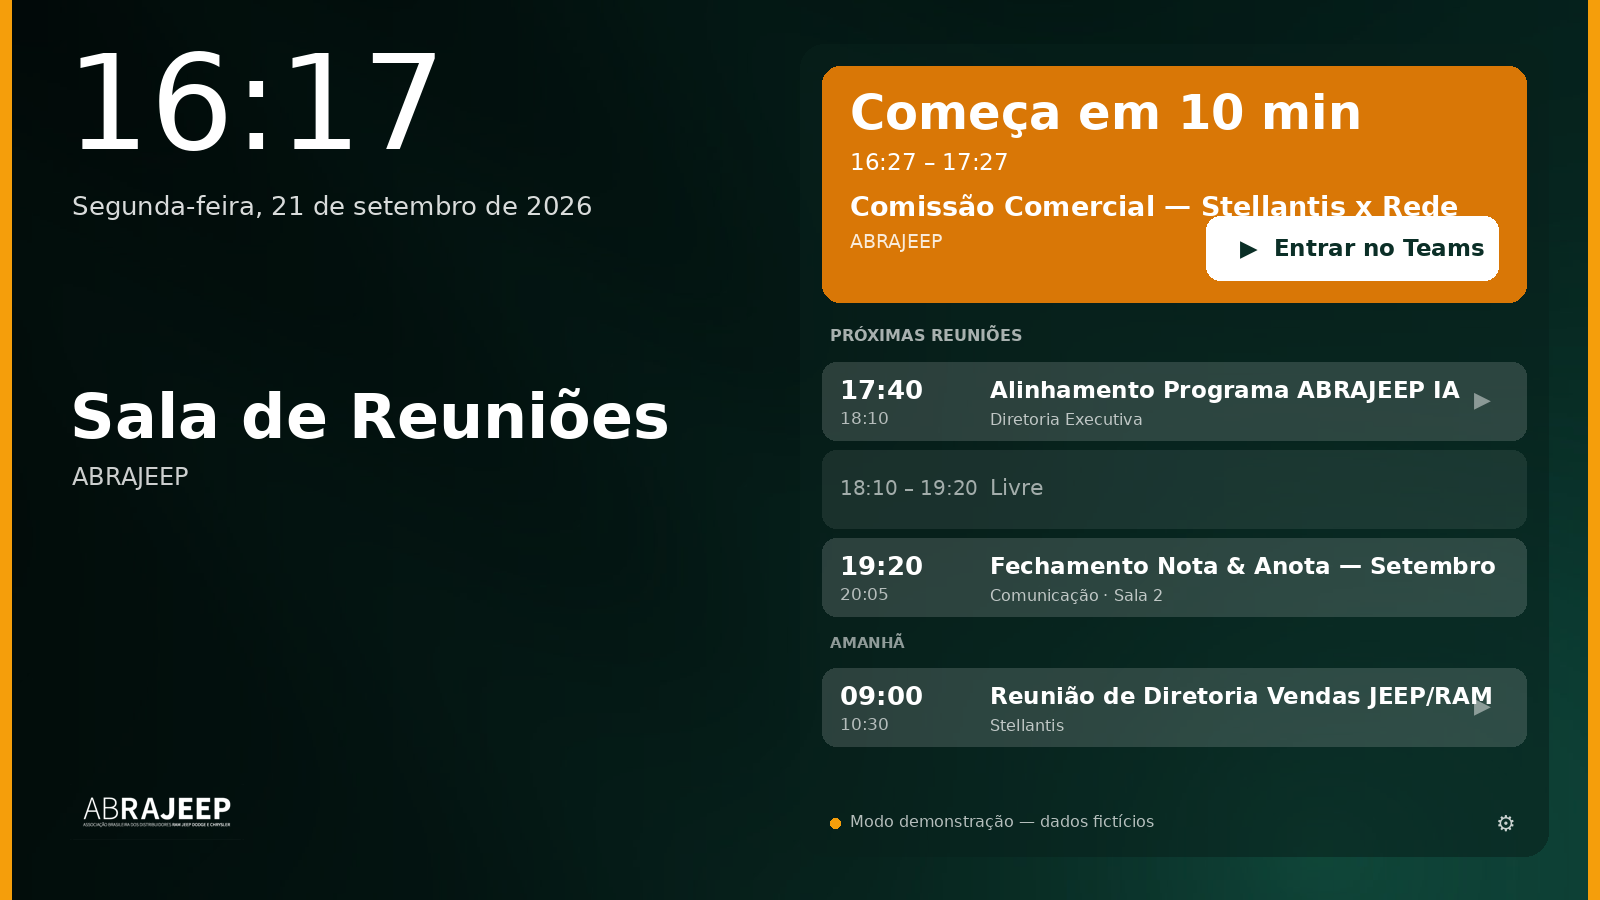
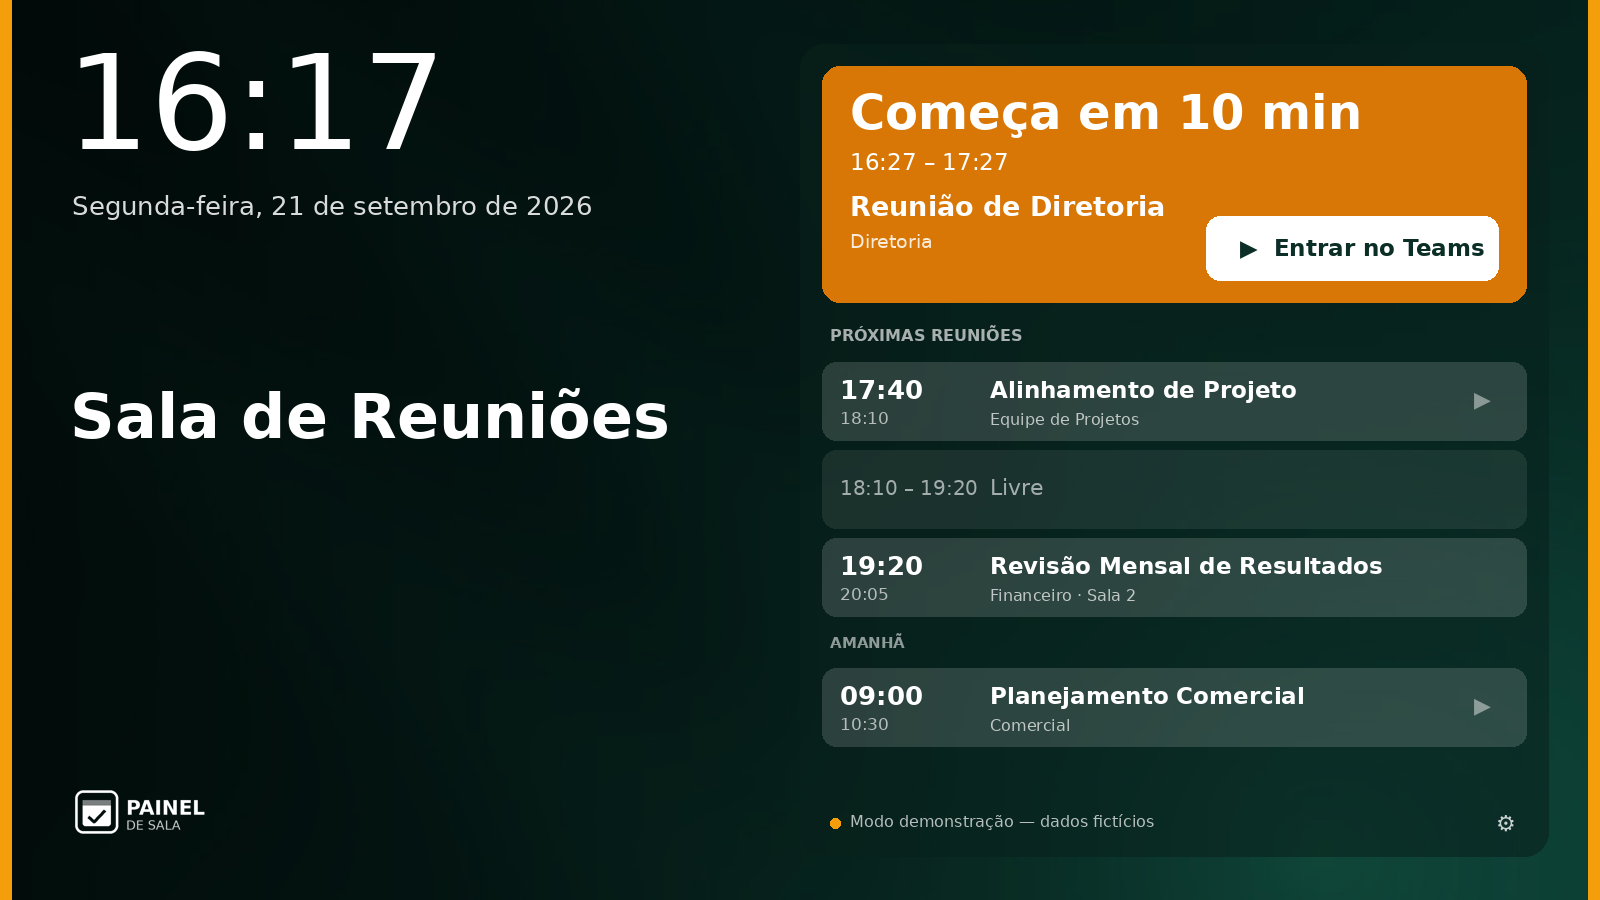
v1.2 — versão neutra para distribuição
Subtítulo padrão vazio, logo padrão genérico (branco, fundo transparente), reuniões de demonstração genéricas e textos do LEIA-ME/README sem referências a uma organização específica. Sem mudanças de funcionalidade em relação à v1.1.

diff --git a/README.md b/README.md
@@ -36,10 +36,12 @@ Detalhes, configuração (`config.json`) e solução de problemas: [LEIA-ME.txt]
 | `Instalar.cmd` / `Instalar.ps1` | cria atalhos e inicialização automática |
 | `Desinstalar.cmd` | remove os atalhos |
 | `PainelSala.cmd` / `Demo.cmd` | abre o painel sem instalar / modo demonstração |
-| `fundo.jpg`, `logo.png`, `PainelSala.ico` | imagem de fundo, logo e ícone |
+| `fundo.jpg`, `logo.png`, `PainelSala.ico` | imagem de fundo, logo padrão (troque pelo seu) e ícone |
 
 ## Versões
 
+- **1.2** — versão neutra para distribuição: subtítulo padrão vazio, logo padrão genérico e reuniões de
+  demonstração genéricas. Personalize nome, subtítulo, fundo e logo pela tela *Personalizar*.
 - **1.1** — tela *Personalizar* nas configurações do app: nome da sala, subtítulo, imagem de fundo e logo,
   com prévia ao vivo e gravação automática no `config.json`. Nada mais foi alterado.
 - **1.0** — versão inicial: relógio, status, próximas reuniões, Entrar no Teams, modo quiosque, instalador.
